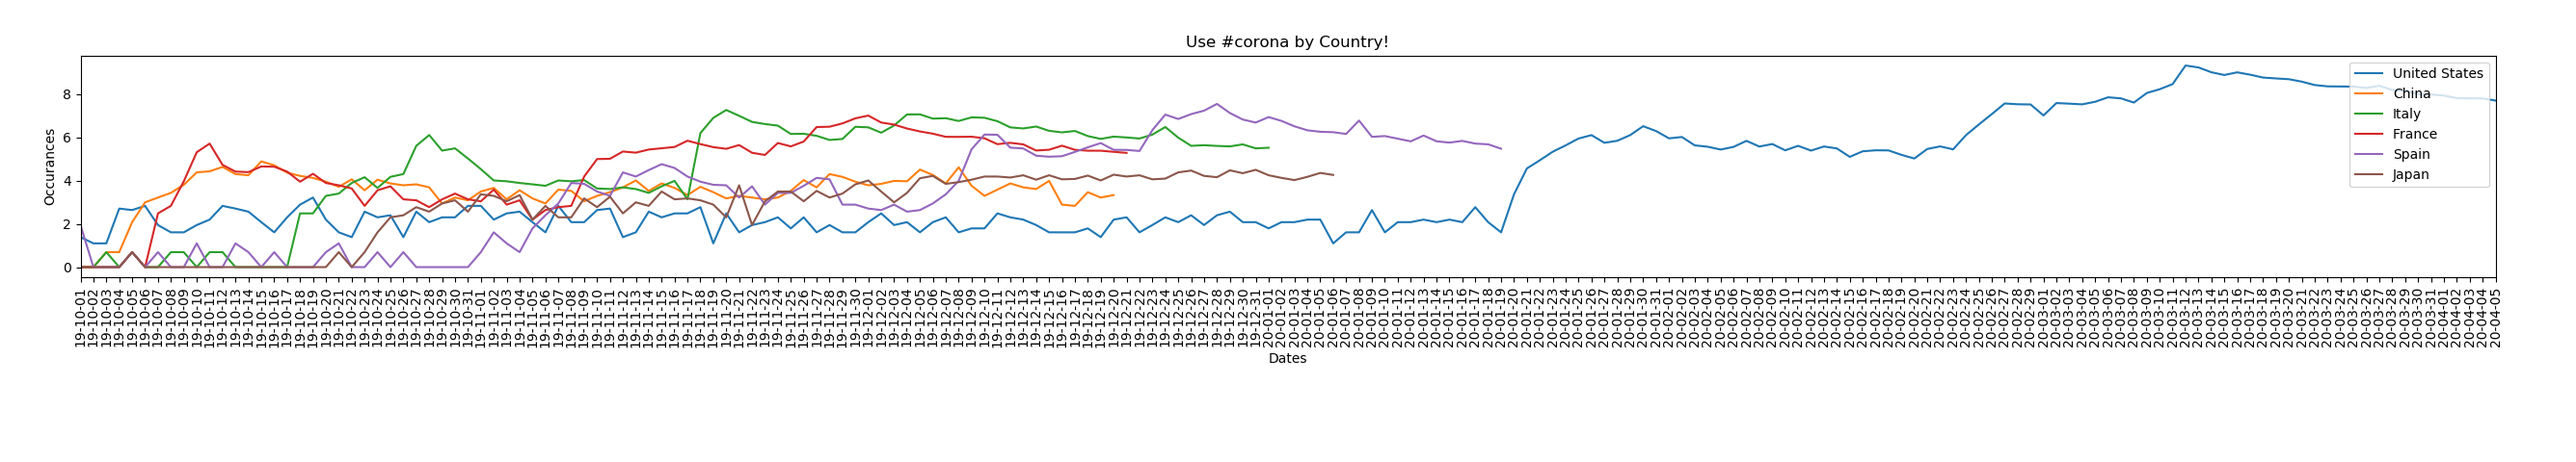
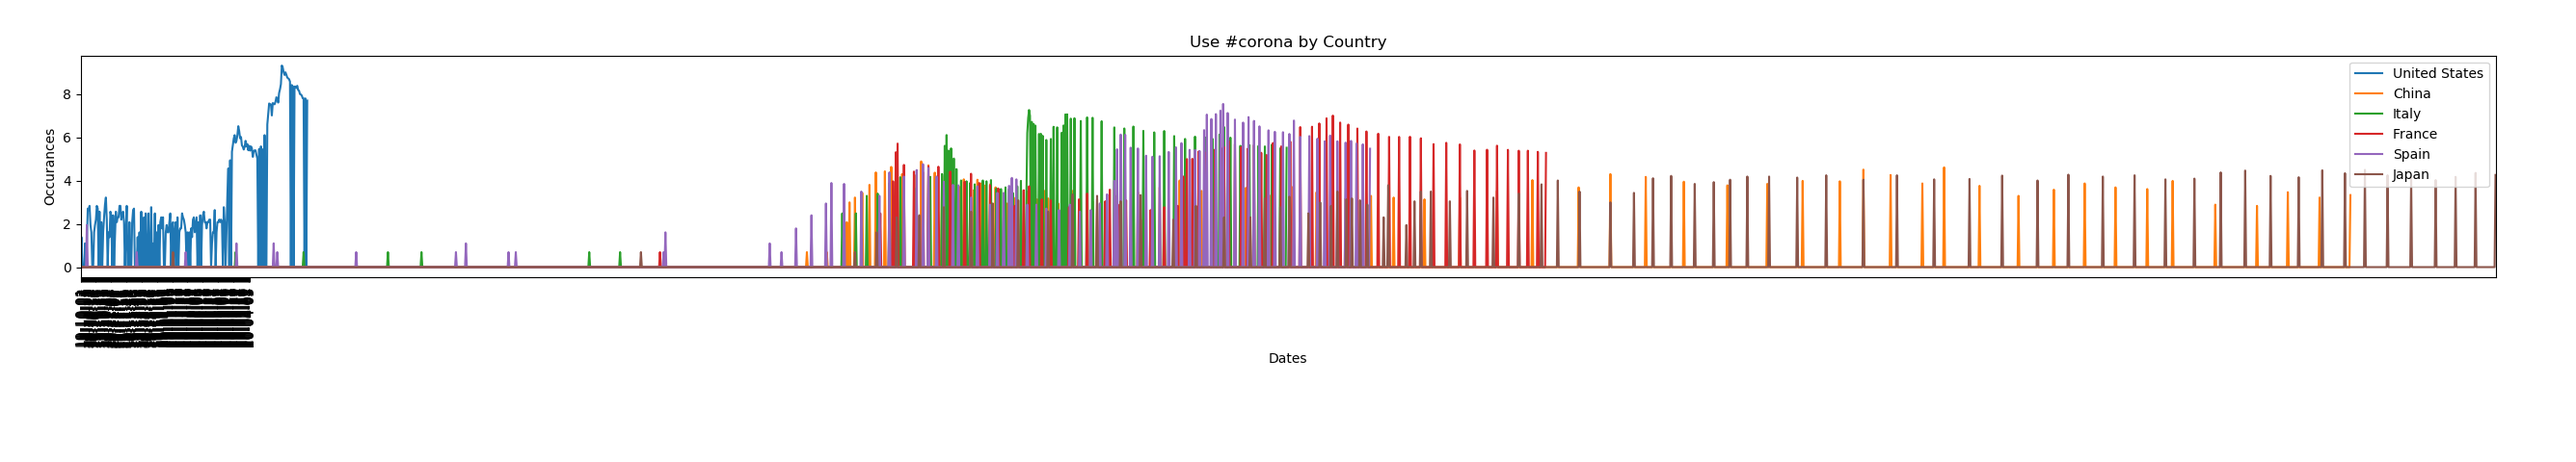
fixing

diff --git a/src/graphy.py b/src/graphy.py
@@ -31,32 +31,43 @@ for path in args.input_paths:
         print(list(tmp))
         objects = sorted(tmp['#corona'].items(), key = lambda item: (item[1],item[0]),reverse = True)
         date = path[18:26]
+        u=0
+        c=0
+        i=0
+        f=0
+        e=0
+        j=0
         for k,v in objects:
             if k == 'US':
-                if v is None:
-                    US.append(0)
-                else:
-                    US.append(np.log(v))
+                US.append(np.log(v))
+                u+=1
             if k == 'CN':
-                if v is None:
-                    CN.append(0)
                 CN.append(np.log(v))
+                c+=1
             if k == 'IT':
-                if v is None:
-                    IT.append(0)
                 IT.append(np.log(v))
+                i+=1
             if k == 'FR':
-                if v is None:
-                    FR.append(0)
                 FR.append(np.log(v))
+                f+=1
             if k == 'ES':
-                if v is None:
-                    ES.append(0)
                 ES.append(np.log(v))
+                e+=1
             if k == 'JP':
-                if v is None:
-                    JP.append(0)
                 JP.append(np.log(v))
+                j+=1
+            if u == 0:
+                US.append(0)
+            if c == 0:
+                CN.append(0)
+            if i == 0:
+                IT.append(0)
+            if f == 0:
+                FR.append(0)
+            if e == 0:
+                ES.append(0)
+            if j == 0:
+                JP.append(0)
     dates.append(date)
 plt.plot(US, label = 'United States')
 plt.plot(CN, label = 'China')
@@ -65,7 +76,7 @@ plt.plot(FR, label = 'France')
 plt.plot(ES, label = 'Spain')
 plt.plot(JP, label = 'Japan')
 
-plt.title("Use #corona by Country!")
+plt.title("Use #corona by Country")
 plt.xlabel("Dates")
 plt.ylabel("Occurances")
 
